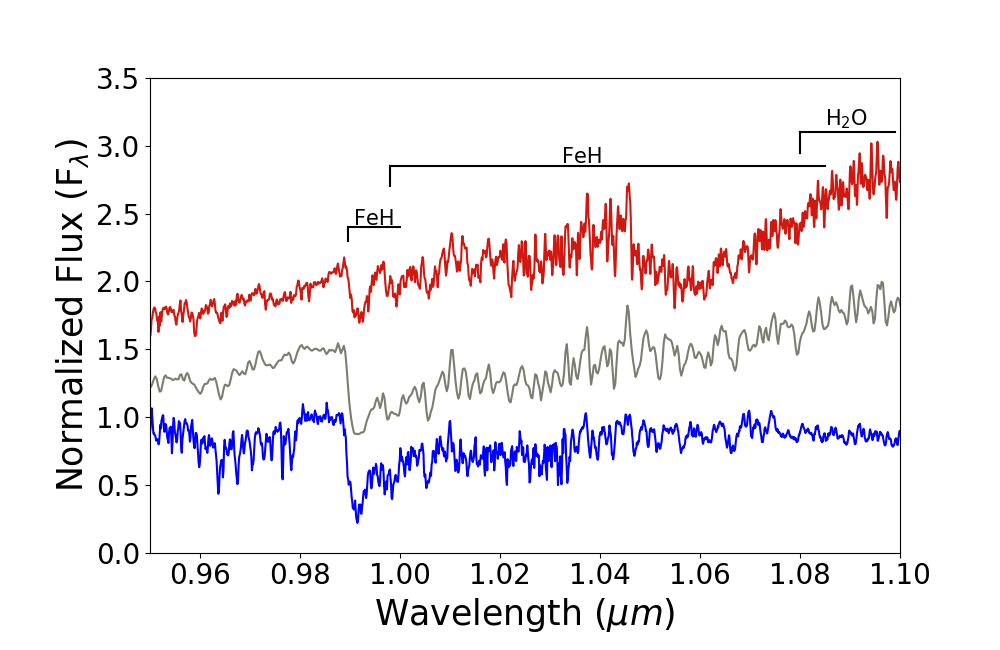
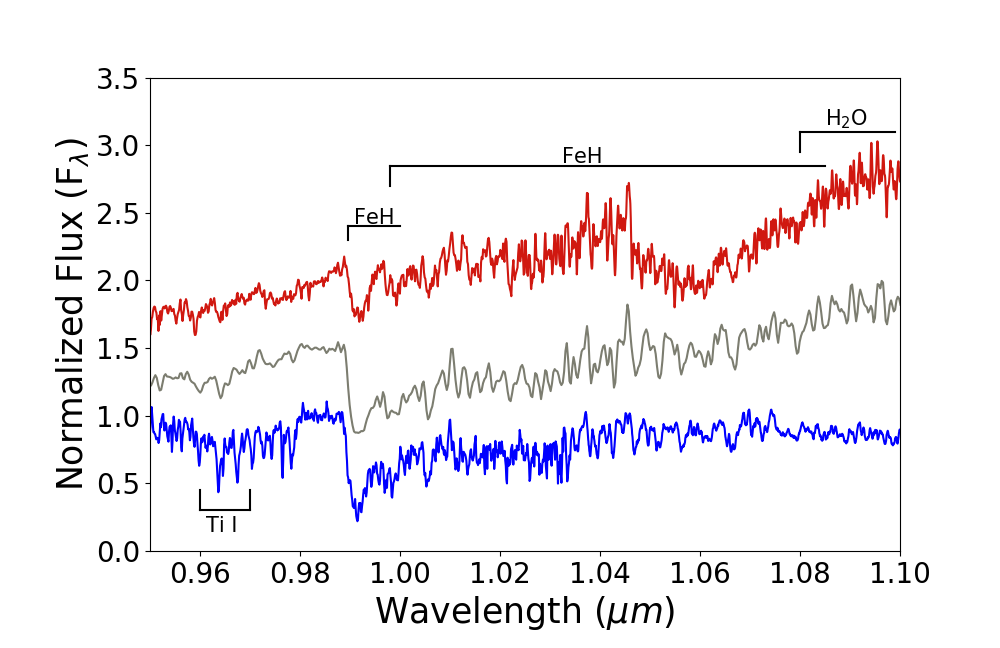
Added Ti I to Y band and H2O to K band plots

diff --git a/KbandTeff.py b/KbandTeff.py
@@ -53,10 +53,16 @@ ax1.plot(df_field['w'], norm_df_field + 1.2, c='#7C7D70')
 ax1.plot(df_young['w'], norm_df_young + 1.7, c='#D01810')
 
 # ------- Label Features --------------------------
-CIA_H2O = pd.DataFrame()
-CIA_H2O['x'] = [2.01, 2.34]
-CIA_H2O['y'] = [3.2, 3.2]
-plt.plot(CIA_H2O['x'], CIA_H2O['y'], color='k')
+H2O = pd.DataFrame()
+H2O['x'] = [2.00, 2.20]
+H2O['y'] = [2.84, 2.84]
+plt.plot(H2O['x'], H2O['y'], color='k')
+ax1.text(0.25, 0.825, 'H$_\mathrm{2} $O', transform=ax1.transAxes, color='k', fontsize=15)
+
+CIA_H2 = pd.DataFrame()
+CIA_H2['x'] = [2.01, 2.34]
+CIA_H2['y'] = [3.2, 3.2]
+plt.plot(CIA_H2['x'], CIA_H2['y'], color='k')
 ax1.text(0.45, 0.925, 'CIA H$_\mathrm{2} $', transform=ax1.transAxes, color='k', fontsize=15)
 
 CO = pd.DataFrame()

diff --git a/Ybandteff.py b/Ybandteff.py
@@ -51,6 +51,22 @@ ax1.plot(df_young['w'], norm_df_young + 1, c='#D01810')
 
 # ------- Label Features --------------------------
 # --- To make line for feature
+Ti1 = pd.DataFrame()
+Ti1['x'] = [0.96, 0.97]
+Ti1['y'] = [0.3, 0.3]
+plt.plot(Ti1['x'], Ti1['y'], color='k')
+ax1.text(0.075, 0.04, 'Ti I', transform=ax1.transAxes, color='k', fontsize=15)
+# -- To make a vertical line
+Ti1up = pd.DataFrame()
+Ti1up['x'] = [0.96, 0.96]
+Ti1up['y'] = [0.3, 0.45]
+plt.plot(Ti1up['x'], Ti1up['y'], color='k')
+Ti1up2 = pd.DataFrame()
+Ti1up2['x'] = [0.97, 0.97]
+Ti1up2['y'] = [0.3, 0.45]
+plt.plot(Ti1up2['x'], Ti1up2['y'], color='k')
+
+# --- To make line for feature
 FeH1 = pd.DataFrame()
 FeH1['x'] = [0.9896, 1.0]
 FeH1['y'] = [2.4, 2.4]
